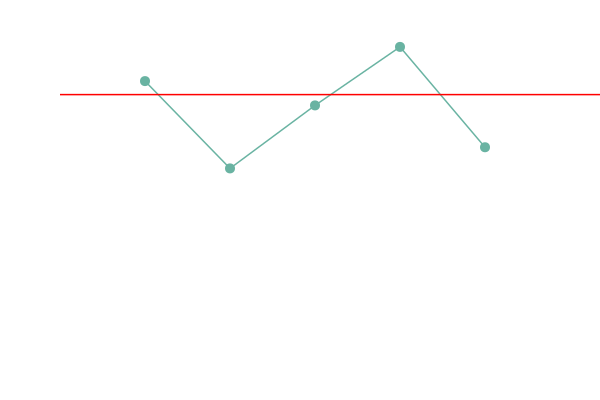
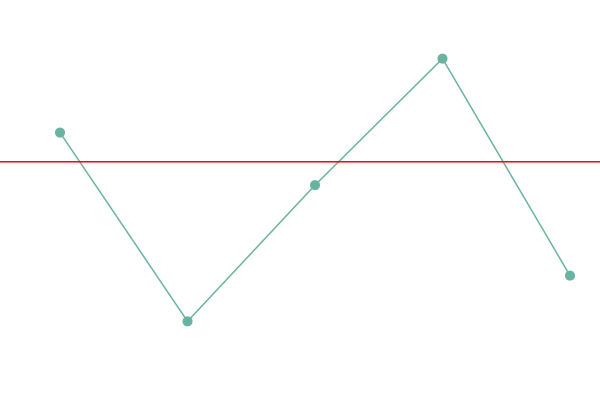
better plottage

diff --git a/jsdom.node.js b/jsdom.node.js
@@ -3,6 +3,7 @@ var d3 = require("d3"),
 var fs = require("fs");
 var xmlserializer = require("xmlserializer");
 var svg2img = require("svg2img");
+var btoa = require("btoa");
 
 var jsdom = require("jsdom");
 const { JSDOM } = jsdom;
@@ -155,148 +156,190 @@ const { document } = new JSDOM("").window;
         "winRate": "6.12"
       }
     }
-
  */
 
-var myData = [
-  { x: 1, y: 6.42 },
-  { x: 2, y: 4.48 },
-  { x: 3, y: 5.88 },
-  { x: 4, y: 7.18 },
-  { x: 5, y: 4.95 }
-];
-const lifetimeKd = 6.12
-const yDomainMax = 8
+// SeasonData
 
-const canvasWidth = 600;
-const canvasHeight = 400;
-var margin = { top: 10, right: 30, bottom: 30, left: 60 },
-  width = canvasWidth - margin.left - margin.right,
-  height = canvasHeight - margin.top - margin.bottom;
+//  "division.bro.official.pc-2018-01": {
+//   "kd": "1.45",
+//   "winRate": "6.42"
+// }
 
-var xScale = d3
-  .scaleLinear()
-  .domain([0, 6])
-  .range([0, width]);
+/**
+ * 
+ * @param {String} title 
+ * @param {Array} seasonData an array of objects with seasonId and statValue, e.g. [ { seasonId: "season1", statValue: 5 }, { seasonId: "season2", statValue: 3 }]
+ * @param {Number} allTimeHighValue 
+ */
+function createPlot(title, seasonData, allTimeHighValue) {
+  const canvasWidth = 600;
+  const canvasHeight = 400;
+  var margin = { top: 10, right: 60, bottom: 30, left: 60 },
+    width = canvasWidth - margin.left - margin.right,
+    height = canvasHeight - margin.top - margin.bottom;
 
-var yScale = d3
-  .scaleLinear()
-  .domain([0, yDomainMax])
-  .range([height, 0]);
+  var dataPointCount = seasonData.length;
+  var xScale = d3
+    .scaleLinear()
+    .domain([1, dataPointCount])
+    .range([0, width]);
 
-// create svg element:
-var svg = d3
-.select(document.body)
-.append("svg")
-.attr("width", canvasWidth)
-.attr("height", canvasHeight)
+  var yPoints = seasonData.map(seasonItem => seasonItem.statValue);
+  console.log(yPoints)
+  var minYPoint = d3.min(yPoints);
+  const maxYPoint = d3.max(yPoints);
+  const yBufferShift = 0.75;
 
-// set a background jic things are black on the image?
-svg.append("rect")
-.attr("width", "100%")
-.attr("height", "100%")
-.attr("fill", "white");
+  var yScale = d3
+    .scaleLinear()
+    .domain([minYPoint - yBufferShift, maxYPoint + yBufferShift])
+    .range([height, 0]);
 
-var svgCanvas = svg
-  .append("g")
-  .attr("transform", "translate(" + margin.left + "," + margin.top + ")");
+  // create svg element:
+  var svg = d3
+    .select(document.body)
+    .append("svg")
+    .attr("width", canvasWidth)
+    .attr("height", canvasHeight);
 
-// add x axis
-svgCanvas
-  .append("g")
-  .attr("transform", "translate(0," + height + ")")
-  .call(d3.axisBottom(xScale));
+  // set a background jic things are black on the image?
+  svg
+    .append("rect")
+    .attr("width", "100%")
+    .attr("height", "100%")
+    .attr("stroke", "black")
+    .attr("fill", "white");
 
-// add y axis
-svgCanvas.append("g").call(d3.axisLeft(yScale));
+  var svgCanvas = svg
+    .append("g")
+    .attr("transform", "translate(" + margin.left + "," + margin.top + ")");
 
-// Add the line
-svgCanvas
-  .append("path")
-  .datum(myData)
-  .attr("fill", "none")
-  .attr("stroke", "#69b3a2")
-  .attr("stroke-width", 1.5)
-  .attr(
-    "d",
-    d3
-      .line()
-      .x(function(d) {
-        return xScale(d.x);
-      })
-      .y(function(d) {
-        return yScale(d.y);
-      })
-  );
-// Add the points
-svgCanvas
-  .append("g")
-  .selectAll("dot")
-  .data(myData)
-  .enter()
-  .append("circle")
-  .attr("cx", function(d) {
-    return xScale(d.x);
-  })
-  .attr("cy", function(d) {
-    return yScale(d.y);
-  })
-  .attr("r", 5)
-  .attr("fill", "#69b3a2");
+  // add x axis
+  const seasonNames = seasonData.map(seasonItem => seasonItem.seasonId.replace("division.bro.official.pc-", ""));
+  const xAxis = d3
+    .axisBottom(xScale)
+    .tickFormat(function(d,i) {
+      return seasonNames[i];
+    })
+    .ticks(dataPointCount);
 
-// TODO dynamicize this shit
-// goes from x min -> max
-// y point is scaled lifetime
-var lifetimeX = [0, width ]
-// Add the lifetime line
-svgCanvas
-  .append("path")
-  .datum(lifetimeX)
-  .attr("fill", "none")
-  .attr("stroke", "#ff0000")
-  .attr("stroke-width", 1.5)
-  .attr(
-    "d",
-    d3
-      .line()
-      .x(function(d) {
-        return xScale(d);
-      })
-      .y(yScale(lifetimeKd))
-  );
+  svgCanvas
+    .append("g")
+    .attr("transform", "translate(0," + height + ")")
+    .style("stroke", "#383838")
+    .call(xAxis)
+    .call(g => g.select(".domain").remove()); // hide connection only show values
+
+  // Add the line
+  svgCanvas
+    .append("path")
+    .datum(yPoints)
+    .attr("fill", "none")
+    .attr("stroke", "#69b3a2")
+    .attr("stroke-width", 1.5)
+    .attr(
+      "d",
+      d3
+        .line()
+        .x(function(d,i) {
+          return xScale(i+1);
+        })
+        .y(function(d) {
+          return yScale(d);
+        })
+    );
+
+  // Add the points
+  svgCanvas
+    .append("g")
+    .selectAll("dot")
+    .data(yPoints)
+    .enter()
+    .append("circle")
+    .attr("cx", function(d,i) {
+      return xScale(i+1);
+    })
+    .attr("cy", function(d) {
+      return yScale(d);
+    })
+    .attr("r", 10)
+    .attr("fill", "#69b3a2");
+
+  // goes from x min -> max
+  // y point is scaled lifetime
+  var lifetimeX = [0.75, dataPointCount+.25];
+  // Add the lifetime line
+  svgCanvas
+    .append("path")
+    .datum(lifetimeX)
+    .attr("fill", "none")
+    .attr("stroke", "#e36666")
+    .attr("stroke-width", 2)
+    .attr(
+      "d",
+      d3
+        .line()
+        .x(function(d) {
+          return xScale(d);
+        })
+        .y(yScale(allTimeHighValue))
+    );
 
 
-// prepare a helper function
-// var lineFunc = d3
-//   .line()
-//   .x(function(d) {
-//     return d.x;
-//   })
-//   .y(function(d) {
-//     return d.y;
-//   });
+  // label each node
+  svgCanvas
+    .selectAll("labels")
+    .data(yPoints)
+    .enter()
+    .append("text")
+    .attr("font-family", "sans-serif")
+    .attr("font-size", "14px")
+    .attr("fill", "#0f544b")
+    .attr("x", function(d, i) {
+      return xScale(i + 1) - 19;
+    }) // fontsize + radius
+    .attr("y", function(d) {
+      var base = yScale(d);
+      if (d < allTimeHighValue) {
+        // shift down by 2x fontsize
+        base += 28;
+      } else {
+        // shift up by fontsize
+        base -= 14;
+      }
+      return base;
+    })
+    .text(function(d) {
+      return "(" + d + ")";
+    });
 
-// Add the path using this helper function
-// svg
-//   .append("path")
-//   .attr("d", lineFunc(data))
-//   .attr("stroke", "black")
-//   .attr("fill", "none");
+  // add the lifetime trend text
+  svgCanvas
+    .append("text")
+    .attr("font-family", "sans-serif")
+    .attr("font-size", "18px")
+    .attr("fill", "#e36666")
+    .attr("x", xScale(5))
+    .attr("y", yScale(allTimeHighValue) - 10)
+    .text("(" + allTimeHighValue + ")");
 
-// serialize our SVG XML to a string.
+  var source = xmlserializer.serializeToString(svg.node());
+  fs.writeFileSync(`${title}.svg`, source);
 
-// svg.node -> g node
-
-var source = xmlserializer.serializeToString(svg.node());
-console.log(source);
-fs.writeFileSync("out.svg", source);
-
-// TODO figure out why axis are not loading
-
-// svg.node refers to the g so we need to find the parent (which is of type svg and not g)
-var imgSource = xmlserializer.serializeToString(svg.node());
-
-svg2img(imgSource, function(error, buffer) {
+  svg2img(source, function(error, buffer) {
     //returns a Buffer
-    fs.writeFileSync('out.png', buffer);
-});
+    fs.writeFileSync(`${title}.png`, buffer);
+  });
+}
+
+const winRateData = [{"seasonId":"division.bro.official.pc-2018-01","statValue":6.42},
+{"seasonId":"division.bro.official.pc-2018-02","statValue":4.48},
+{"seasonId":"division.bro.official.pc-2018-03","statValue":5.88},
+{"seasonId":"division.bro.official.pc-2018-04","statValue":7.18},
+{"seasonId":"division.bro.official.pc-2018-05","statValue":4.95}]
+
+const lifeTimeWinRate = 6.12
+
+// TODO add desired title text
+
+createPlot("test", winRateData, lifeTimeWinRate);
